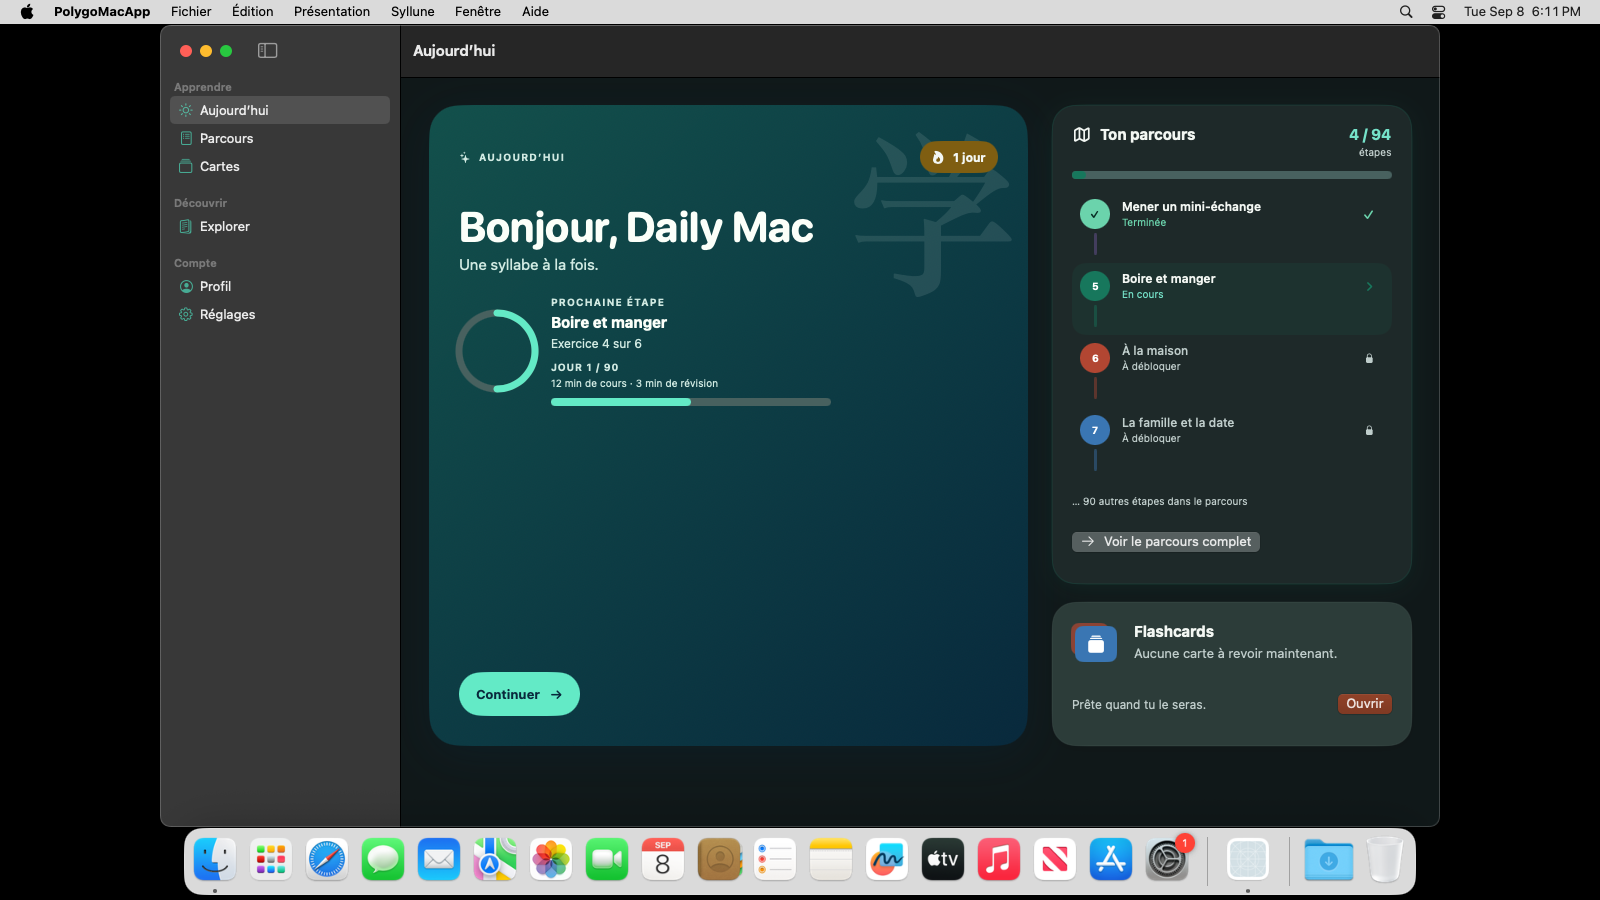
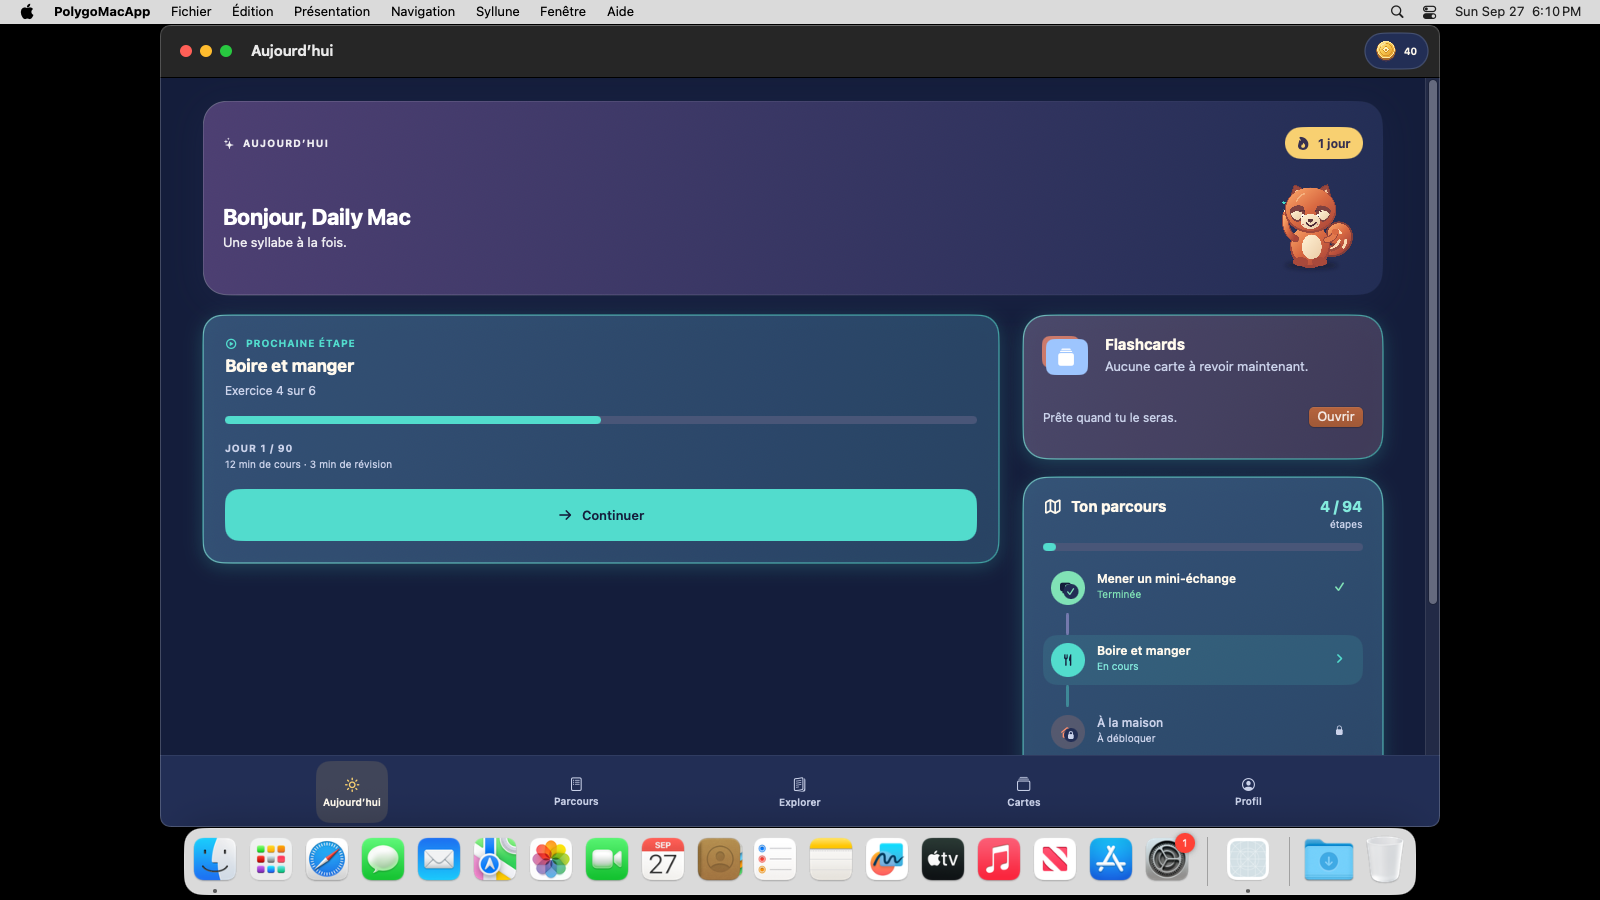
docs: consolidate Tavi native validation and refresh screenshots

diff --git a/docs/QA_REPORT.md b/docs/QA_REPORT.md
@@ -22,12 +22,11 @@ occurrences cibles, les pinyins accentués et les lectures polyphoniques ; les
 corrections éditoriales des entrées 214, 317, 354, 410, 413, 448, 457, 462,
 494 et 517 sont intégrées. Aucun blocage linguistique ne reste ouvert.
 
-La suite portable compte **72 tests XCTest**. Le [run Apple
-36334024987](https://github.com/STOOOKEEE/Polygo/actions/runs/36334024987)
-sur `8e4e5f6` a validé les **72/72** avec Swift 6.1.2 et Xcode 16.4.
-Le même run a validé le build Mac, les **9/9 méthodes UI macOS** et les deux
-séquences de récupération du vrai `AppModel`. La validation mobile de la
-refonte n’est pas encore complète ; le détail figure ci-dessous.
+La suite portable compte **72 tests XCTest**. La campagne de référence est le
+[run Apple 36339541346](https://github.com/STOOOKEEE/Polygo/actions/runs/36339541346)
+sur `b0d065f` (Swift 6.1.2, Xcode 16.4) : package **72/72**, Mac **9/9**,
+iPhone **11/11**. L’iPad est hors périmètre de validation ; son résultat
+(7/8) est consigné ci-dessous à titre non bloquant.
 
 ## Contrats de contenu
 
@@ -108,45 +107,41 @@ La couverture comprend :
   facultatif sans fournisseur d’évaluation ;
 - captures réelles claires/sombres, orientations iOS et gros caractères iPad.
 
-Résultats de `8e4e5f6`, [run
-36334024987](https://github.com/STOOOKEEE/Polygo/actions/runs/36334024987) :
+Résultats de `b0d065f`, [run
+36339541346](https://github.com/STOOOKEEE/Polygo/actions/runs/36339541346),
+relevés dans les journaux du run :
 
 | Surface | Résultat observé |
 | --- | --- |
-| Package | 72/72 |
-| Mac | Build, 9/9 méthodes UI et deux séquences AppModel réussis |
-| iPhone | Build réussi ; runner XCTest échoué avant les tests |
-| iPad AX5 | 5/8 méthodes réussies |
+| Package | 72/72 (`[72/72] Testing …`, étape « Run portable package tests » réussie) |
+| Mac | Build, « Executed 9 tests, with 0 failures » et probe `AppModel` réussis |
+| iPhone 16 Pro | Build, « Executed 11 tests, with 0 failures » |
+| iPad Pro 11 pouces AX5 | Hors périmètre, non bloquant : « Executed 8 tests, with 1 failure » |
 
-L’échec iPhone vient de l’initialisation du runner
-(`AXDisableAccessibilityOnTermination: kAXErrorCannotComplete`) ; aucun
-parcours iPhone de ce run n’est compté comme exécuté. Sur iPad, ⌘1 n’a pas
-quitté la leçon. Les deux autres échecs concernent une assertion pendant
-l’animation de retour depuis Écriture et la recherche d’un bouton Arrêter
-après la fin du bref clip oral. Les captures montrent les cinq onglets
-lisibles en AX5 ; onboarding, réglages et conservation des piles passent.
-
-Le correctif `b95438c` utilise la chaîne de réponse UIKit pour les raccourcis
-iOS et synchronise ces deux interactions de test sur leur surface réelle,
-sans retirer leurs assertions. Sa [campagne
-36337484177](https://github.com/STOOOKEEE/Polygo/actions/runs/36337484177)
-est en cours ; elle n’est pas encore une preuve de réussite.
+Le job `build-ios` est marqué en échec uniquement par l’étape iPad. Le seul
+échec est `testIPadKeyboardShortcutsReachTabsAndSettingsFromFocusedContent` :
+⌘1 n’a pas quitté une leçon. Le correctif `1981952` (résolution des raccourcis
+dans la scène SwiftUI active) est poussé mais n’est pas validé. L’iPad ne fait
+pas partie du périmètre de validation de la refonte.
 
 Le probe Mac charge le vrai `AppModel` compilé et conserve ses journaux JSONL :
 échec avant append, complétion durable suivie d’un échec de cache, reload,
 retry et reconstruction du modèle sans réannoncer un ancien gain. Il ne
 substitue pas un modèle de test à l’application.
 
-Les images déjà présentes dans `docs/screenshots` sont des snapshots
-antérieurs, pas une preuve de la refonte. Les pièces jointes natives des
-campagnes ci-dessus restent disponibles dans leurs artefacts GitHub.
+Les images de `docs/screenshots` proviennent des artefacts
+`PolygoAppUITests-36339541346` (iPhone 16 Pro, réduites à 603 × 1311) et
+`PolygoMacUITests-36339541346` (Mac, 1600 × 900) de ce run : accueil,
+parcours clair/sombre, dialogue, pièces après complétion, écriture guidée et
+séance quotidienne J1/J2/lecture. Les autres pièces jointes restent dans les
+artefacts GitHub.
 
 ## Vérifications hors automatisation
 
-Les parcours automatisés et l’inspection des captures ne remplacent pas un
-audit VoiceOver sur appareil, les contrastes mesurés et les fenêtres Mac
-étroites. Dynamic Type AX5 est exercé sur simulateur iPad ; cela ne prouve pas
-toutes les tailles sur tous les appareils. La réduction des animations et
+Aucun audit manuel sur appareil n’a été réalisé. Les parcours automatisés et
+l’inspection des captures ne remplacent pas un audit VoiceOver sur appareil,
+les contrastes mesurés et les fenêtres Mac étroites. Dynamic Type AX5 n’est
+exercé que sur simulateur iPad, hors périmètre. La réduction des animations et
 Speech avec permission accordée restent à exercer manuellement. Aucun
 fournisseur d’évaluation de prononciation n’est configuré.
 

diff --git a/docs/RELEASE.md b/docs/RELEASE.md
@@ -69,23 +69,30 @@ de dix cartes, évalue exactement la tranche annoncée et laisse la file
 complète accessible par « Poursuivre ». Les réponses de test sont cherchées par
 ID correct ; elles ne dépendent pas de leur position dans la liste.
 
-Les sources contiennent 8 méthodes UI iOS et 5 méthodes UI macOS. Elles attachent
-les captures de la séance quotidienne et de la session courte avec XCTest. Les
-captures déjà archivées sont :
+Le [run 36339541346](https://github.com/STOOOKEEE/Polygo/actions/runs/36339541346)
+sur `b0d065f` a validé le package (72/72), 9/9 méthodes UI Mac et 11/11
+méthodes UI iPhone ; l’iPad (7/8) est hors périmètre et non bloquant. Les
+captures du dépôt en proviennent (iPhone 16 Pro réduit à 603 × 1311, Mac
+1600 × 900) :
 
-- [parcours macOS](screenshots/roadmap-macos-dark.png) — 1600 × 900,
[1 lines of base64/hex data omitted]
-- [dialogue macOS](screenshots/dialogue-macos-dark.png) — 1600 × 900,
[1 lines of base64/hex data omitted]
-- [écriture guidée iOS](screenshots/handwriting-guided-ios.png) et
-  [reprise iOS](screenshots/handwriting-retry-ios.png).
+| Capture | Dimensions | SHA-256 |
+| --- | --- | --- |
[11 lines of base64/hex data omitted]
 
-Le run Apple canonique a produit les captures macOS de la séance quotidienne
-(J1, écoute, lecture, retour au parcours et J2) et de la session courte. Le
-bundle xcresult iOS du même run conserve les captures du parcours. Le conteneur
-Linux ne fournit ni Xcode, ni SwiftUI, ni SDK Apple. Les builds Apple,
-les méthodes UI, l’audit VoiceOver/Dynamic Type, les permissions Speech et les
-fenêtres étroites restent des contrôles du runner ou de l’appareil.
+Le conteneur Linux ne fournit ni Xcode, ni SwiftUI, ni SDK Apple. Les builds
+Apple, les méthodes UI, l’audit VoiceOver/Dynamic Type sur appareil, les
+permissions Speech et les fenêtres étroites restent des contrôles du runner ou
+de l’appareil ; aucun audit manuel sur appareil n’a été réalisé.
 
 ## Génération et builds Apple
 

diff --git a/README.md b/README.md
@@ -48,10 +48,12 @@ xcodebuild -project Polygo.xcodeproj -scheme PolygoMacApp \
   CODE_SIGNING_ALLOWED=NO build
 ```
 
-La suite portable compte **72 tests XCTest**. La CI Apple compile les deux
-applications, exerce les parcours natifs sur Mac, iPhone et iPad et vérifie la
-reprise du vrai `AppModel` après des erreurs de persistance. Les commits testés,
-résultats, captures et limites figurent dans le [rapport QA](docs/QA_REPORT.md).
+La suite portable compte **72 tests XCTest** (72/72 dans le journal du [run
+36339541346](https://github.com/STOOOKEEE/Polygo/actions/runs/36339541346)).
+La CI Apple compile les deux applications, exerce les parcours natifs sur Mac
+(9/9) et iPhone (11/11) et vérifie la reprise du vrai `AppModel` après des
+erreurs de persistance ; l’iPad est hors périmètre de validation. Les commits
+testés, résultats, captures et limites figurent dans le [rapport QA](docs/QA_REPORT.md).
 Xcode et les SDK Apple ne sont pas présents dans l’environnement Linux :
 les validations natives sont exécutées sur les runners Apple, pas simulées ici.
 
@@ -120,12 +122,18 @@ complète. Le parcours macOS de session courte prépare 16 cartes dues, en éval
 exactement la tranche annoncée et conserve les cartes restantes pour
 « Poursuivre ».
 
-Les captures natives déjà archivées comprennent [le parcours macOS](docs/screenshots/roadmap-macos-dark.png),
-[le dialogue macOS](docs/screenshots/dialogue-macos-dark.png), [l’écriture guidée iOS](docs/screenshots/handwriting-guided-ios.png)
-et [la reprise iOS](docs/screenshots/handwriting-retry-ios.png). Le run Apple
-canonique a produit [l’aperçu macOS de la séance quotidienne J1](docs/screenshots/daily-plan-day-one-macos.png),
-ainsi que les captures macOS de la session courte ; les captures iOS de ce
-parcours sont conservées dans le bundle xcresult du run.
+Les captures natives de la refonte proviennent du run 36339541346 :
+[accueil iPhone](docs/screenshots/home-ios.png),
+[parcours iPhone sombre](docs/screenshots/roadmap-ios-dark.png),
+[dialogue iPhone](docs/screenshots/dialogue-ios.png),
+[pièces après complétion](docs/screenshots/coins-roadmap-ios.png),
+[écriture guidée iPhone](docs/screenshots/handwriting-guided-ios.png),
+[accueil Mac](docs/screenshots/home-macos-dark.png),
+[parcours Mac](docs/screenshots/roadmap-macos-dark.png),
+[dialogue Mac](docs/screenshots/dialogue-macos-dark.png) et la séance
+quotidienne Mac ([J1](docs/screenshots/daily-plan-day-one-macos.png),
+[lecture](docs/screenshots/daily-plan-reading-macos.png),
+[J2](docs/screenshots/daily-plan-day-two-macos.png)).
 
 ## Organisation du code
 

diff --git a/docs/INTEGRATION_STATUS.md b/docs/INTEGRATION_STATUS.md
@@ -1,10 +1,10 @@
 # Statut d’intégration
 
 Le bundle de contenu reste en `2026.10.0`. La refonte Tavi est publiée par
-lots sur `feat/mobile-originale` ; son intégration dans `main` attend la
-validation native complète. Le [rapport QA](QA_REPORT.md) centralise les
-commits testés, résultats et limites, sans assimiler une compilation à une
-validation des parcours.
+lots sur `feat/mobile-originale` ; sa validation native Mac et iPhone est
+consolidée et son intégration dans `main` reste à faire. Le [rapport
+QA](QA_REPORT.md) centralise les commits testés, résultats et limites, sans
+assimiler une compilation à une validation des parcours.
 
 ## Roadmap — refonte Tavi
 
@@ -24,21 +24,16 @@ Les cases cochées ci-dessous désignent du travail implémenté et poussé sur
 - [x] Ajustement des gestes de test aux pieds fixes et à la feuille du
   dictionnaire (`b0d065f`).
 
-### Validation et livraison restantes
+### Validation et livraison
 
-- [ ] Consolider les résultats de la [campagne du dernier lot
-  b0d065f](https://github.com/STOOOKEEE/Polygo/actions/runs/36339541346),
-  notamment les raccourcis iPad et les deux parcours iPhone corrigés.
-- [ ] Mettre à jour le rapport QA et remplacer les captures historiques du
+- [x] Consolider les résultats de la [campagne du dernier lot
+  b0d065f](https://github.com/STOOOKEEE/Polygo/actions/runs/36339541346) :
+  package 72/72, Mac 9/9, iPhone 11/11. iPad AX5 hors périmètre, non
+  bloquant (7/8 ; correctif `1981952` non validé).
+- [x] Mettre à jour le rapport QA et remplacer les captures historiques du
   dépôt par les preuves natives de la refonte validée.
 - [ ] Intégrer et pousser la refonte sur `main` après validation complète,
   sans écraser le travail existant.
-
-La [campagne e966cb8](https://github.com/STOOOKEEE/Polygo/actions/runs/36334347168)
-déjà examinée a validé le package et le job Mac complet ; les parcours UI
-atteignent 9/9 sur Mac, 9/11 sur iPhone et 7/8 sur iPad. Les scénarios iPhone
-de pièces, relance et rejeu passent. Ces résultats précèdent les derniers
-correctifs et ne constituent pas leur validation finale.
 
 ## Bundle et curriculum
 
